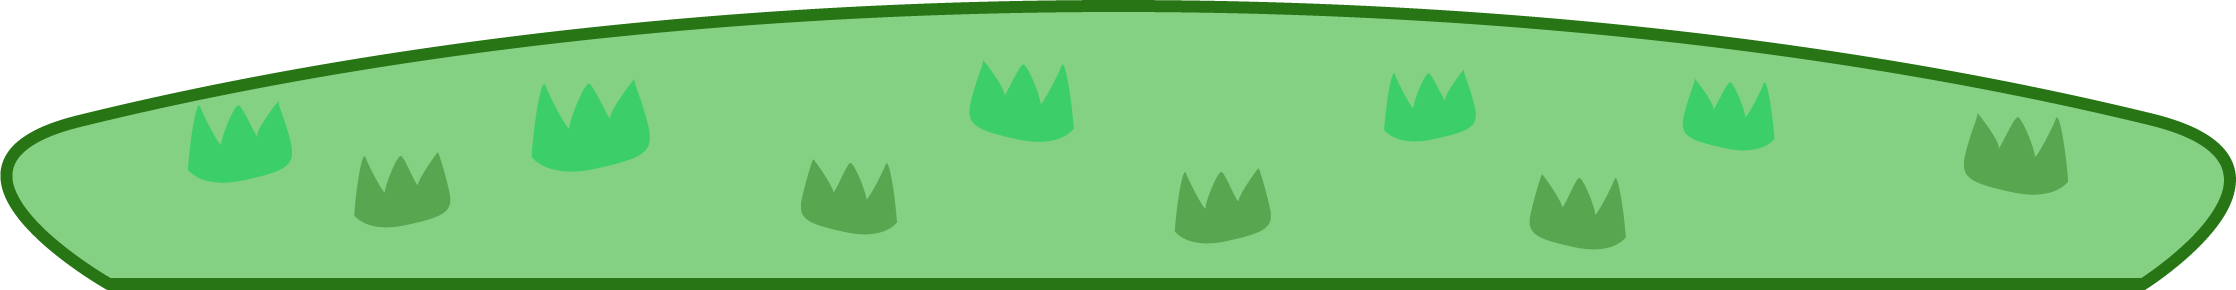
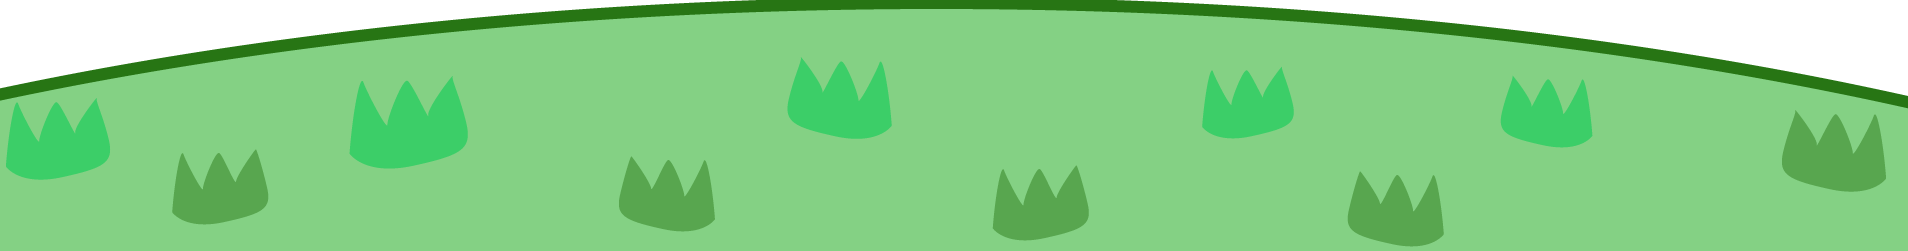
add: web layout

diff --git a/src/components/result/TextWhiteBoard.jsx b/src/components/result/TextWhiteBoard.jsx
@@ -1,0 +1,191 @@
+import React from 'react';
+import styled from 'styled-components';
+import PropTypes from 'prop-types';
+import media from '../../lib/styles/media';
+import partner from '../../../public/img/bear.png';
+import insta from '../../../public/img/insta.png';
+import kakao from '../../../public/img/kakao.png';
+import twitter from '../../../public/img/twitter.png';
+import clip from '../../../public/img/clip.png';
+
+const Board = styled.div`
+  width:600px;
+  background-color:white;
+  font-family:'jua', sans-serif;
+  padding: 20px;
+  border: 2px solid #b6af4a;
+  border-radius:2rem;
+  display: grid;
+  grid-template-rows: repeat(5, 100px);
+  grid-template-columns: repeat(4, 1fr);
+  grid-template-areas:
+    "Test Test Graph Graph"
+    "Test Test Graph Graph"
+    "Test Test Side Side2"
+    "Test Test Side Side2"
+    "Test Test Share Share";
+`;
+const Test = styled.div`
+  grid-area: Test;
+  /* border:1px solid gray; */
+`;
+const Graph   = styled.div`
+  grid-area: Graph;  
+  /* border:1px solid gray; */
+`;
+const Side  = styled.div`
+  grid-area: Side; 
+  /* border:1px solid gray; */
+`;
+const Side2 = styled.div`
+  grid-area: Side2;
+  /* border:1px solid gray; */
+`;
+
+const Share = styled.div`
+  grid-area: Share;
+  /* border:1px solid gray; */
+`;
+
+const TestBox = styled.div`
+  width: 90%;
+  height: 100%;
+  border-radius: 2rem;
+  /* background-color: #eeeeee; */
+  /* margin: 0px auto; */
+`;
+const GraphBox = styled.div`
+  width: 95%;
+  height: 100%;
+  border-radius: 1rem 1rem 0 0;
+  background-color: #eeeeee;
+`;
+const SideBox = styled.div`
+  width: 90%;
+  border-radius: 0 0 1rem 1rem;
+  background-color: #eeeeee;
+  margin: 10px 0;
+  text-align:center;
+  padding: 10px 0;
+`;
+const Side2Box = styled.div`
+  width: 90%;
+  border-radius: 0 0 1rem 1rem;
+  background-color: #eeeeee;
+  margin: 10px 0;
+  text-align:center;
+  padding: 10px 0;
+`;
+const ShareBox = styled.div`
+  width: 85%;
+  border-radius: 2rem;
+  /* background-color: #eeeeee; */
+  margin: 10px auto;
+  text-align:center;
+`;
+
+const TitleWrap = styled.div`
+  padding: 40px 0 20px;
+  width: 100%;
+  text-align: center;
+`;
+const SmallTitle = styled.p`
+  font-size:16px;
+`;
+const Title = styled.p`
+  font-size:25px;
+`;
+const DescriptionWrap = styled.div`
+  width: 90%;
+  margin: 0 auto;
+  /* text-align: center; */
+`;
+
+const Description = styled.p`
+  color: #5c5c5c;
+  font-size:14px;
+  font-family:'jua', sans-serif;
+`;
+
+const PartnerTitle = styled.p`
+  margin: 5px 0;
+`;
+const PartnerImg = styled.img`
+  width:50px;
+`;
+const PartnerName = styled.p`
+  margin: 5px 0;
+`;
+
+
+const IconBox = styled.div`
+  display:flex;
+  flex-direction:row;
+  justify-content:center;
+  width:100%;
+`;
+const Icon = styled.img`
+  width:40px;
+  margin:0 5px;
+`;
+const RestartButton = styled.button`
+  width:100%;
+  height: 30px;
+  border-radius: 10px;
+  background-color:#d1c873;
+  color:white;
+  border-style:none;
+  font-family: 'jua', sans-serif;
+`;
+
+
+
+const TextWhiteboard = ({}) => {
+
+    return(
+      <Board>
+        <Test>
+          <TestBox>
+            <TitleWrap>
+              <SmallTitle>누가 뭐래도 마이웨이</SmallTitle>
+              <Title>고양이 디자이너</Title>
+            </TitleWrap>
+            <DescriptionWrap>
+              <Description>당신은 고양이입니다 고양이 고양이....</Description>
+            </DescriptionWrap>
+          </TestBox>
+        </Test>
+        <Graph>
+          <GraphBox>
+          </GraphBox>
+        </Graph>
+        <Side>
+          <SideBox>
+            <PartnerTitle>최고의 짝궁</PartnerTitle>
+            <PartnerImg src={partner} alt='partner'/>
+            <PartnerName>핵인싸 카피바라</PartnerName>
+          </SideBox>
+        </Side>
+        <Side2>
+          <Side2Box>
+            <PartnerTitle>최악의 짝궁</PartnerTitle>
+            <PartnerImg src={partner} alt='partner'/>
+            <PartnerName>핵아싸 카피바라</PartnerName>
+          </Side2Box>
+        </Side2>
+        <Share>
+          <ShareBox>
+            <IconBox>
+              <Icon src={kakao} alt='kakaogram'/>
+              <Icon src={insta} alt='instagram'/>
+              <Icon src={twitter} alt='twitter'/>
+              <Icon src={clip} alt='clip'/>
+            </IconBox>
+          </ShareBox>
+          <RestartButton>테스트 다시하기</RestartButton>
+        </Share>
+      </Board>
+    );
+};
+
+export default TextWhiteboard;

diff --git a/src/containers/result/CharacterContainer.jsx b/src/containers/result/CharacterContainer.jsx
@@ -4,6 +4,8 @@ import PropTypes from 'prop-types';
 import media from '../../lib/styles/media';
 import treeBase from '../../../public/img/tree_base.png';
 import character from '../../../public/img/bear.png';
+import lightImg from '../../../public/img/light.png';
+
 
 const CharacterContent = styled.div`
   position:relative;
@@ -13,7 +15,15 @@ const CharacterContent = styled.div`
 const CharacterBox = styled.div`
   width: 100%;
   height: 600px;
-  background-image: linear-gradient(to bottom, #ffdb00, rgba(255, 219, 0, 0));
+`;
+const CharacterLight = styled.div`
+  width:400px;
+  height:600px;
+  margin: 0 auto;
+  background-image: url(${lightImg});
+  background-repeat: no-repeat;
+  background-size: 100% 100%;
+  background-position: center;
 `;
 
 const CharacterNameBox = styled.div`
@@ -63,8 +73,7 @@ text-align: center;
 `; 
 
 const Tree = styled.img`
-  width:400px;
-  height:150px;
+  width:350px;
 `;
 
 const CharacterContainer = ({}) => {
@@ -72,6 +81,7 @@ const CharacterContainer = ({}) => {
     return(
       <CharacterContent>
         <CharacterBox>
+          <CharacterLight/>
           <CharacterNameBox>
             <CharacterNameBar>
               <CharacterNameTable>

diff --git a/src/containers/result/ResultTextContainer.jsx b/src/containers/result/ResultTextContainer.jsx
@@ -1,39 +1,28 @@
 import React from 'react';
 import styled from 'styled-components';
+import TextWhiteBoard from '../../components/result/TextWhiteBoard';
 import PropTypes from 'prop-types';
 import media from '../../lib/styles/media';
 
-
-
-const TextContent = styled.div`
+const TextContentWrap = styled.div`
     position:relative;
     height: 100vh;
 `;
-const TextBox = styled.div`
+const TextContentBox = styled.div`
   position:absolute;
   top:100px;
   width: 100%;
 `;
 
-const TextWhiteBoard = styled.div`
-  width:85%;
-  height:33rem;
-  background-color:white;
-  border-radius:4rem;
-`;
-
 const ResultTextContainer = ({}) => {
 
     return(
-      <TextContent> 
-        <TextBox>
-            <TextWhiteBoard>
-
-            </TextWhiteBoard>
-        </TextBox>
-      </TextContent>    
+      <TextContentWrap> 
+        <TextContentBox>
+            <TextWhiteBoard/>
+        </TextContentBox>
+      </TextContentWrap>    
     );
-
 };
 
 export default ResultTextContainer;

diff --git a/src/containers/result/ResultContainer.jsx b/src/containers/result/ResultContainer.jsx
@@ -10,7 +10,10 @@ const ResultBox = styled.div`
     z-index:999;
     display:grid;
     width:100%;
-    grid-template-columns: 2.5fr 3fr;
+    grid-template-columns: 1fr 3fr 3fr 2fr;
+    @media (max-width: ${media.tablet}) {
+        grid-template-columns: 1fr 3fr 3fr 2fr;
+    }        
 `;
 
 const ResultContent = styled.div`
@@ -24,11 +27,14 @@ const ResultContainer = ({}) => {
     return (
         <ResultBox>
             <ResultContent>
+            </ResultContent>
+            <ResultContent>
               <CharacterContainer/>
             </ResultContent>
             <ResultContent>
               <ResultTextContainer/>
             </ResultContent>
+            <ResultContent></ResultContent>
         </ResultBox>
     );
 };

diff --git a/src/components/common/GrassBackground.jsx b/src/components/common/GrassBackground.jsx
@@ -10,7 +10,7 @@ const Background = styled.span`
   bottom: 0;
   background-image: url(${(props) => props.img});
   background-position: bottom;
-  background-size: 200% 10rem;
+  background-size: 1440px 11rem;
   background-repeat: no-repeat;
 `;
 

diff --git a/src/pages/Result.jsx b/src/pages/Result.jsx
@@ -14,7 +14,7 @@ import media from '../lib/styles/media';
 const ResultWrapper = styled.div`
   height: 100vh;
   width: 100vw;
-  overflow: hidden;
+  overflow-x: hidden;
   position: relative;
   background-color: #c5f1fc;
 `;

diff --git a/src/components/common/RightTree.jsx b/src/components/common/RightTree.jsx
@@ -13,8 +13,7 @@ const Tree = styled.img`
   };
   position: absolute;
   right: -7rem;
-  top: -1rem;
-  height: 110vh;
+  height: 100vh;
   object-fit: contain;
   z-index:1;
 `;

diff --git a/src/components/common/LeftTree.jsx b/src/components/common/LeftTree.jsx
@@ -13,8 +13,7 @@ const Tree = styled.img`
   };
   position: absolute;
   left: -7rem;
-  top: -1rem;
-  height: 110vh;
+  height: 100vh;
   object-fit: contain;
   z-index:1;
 `;
